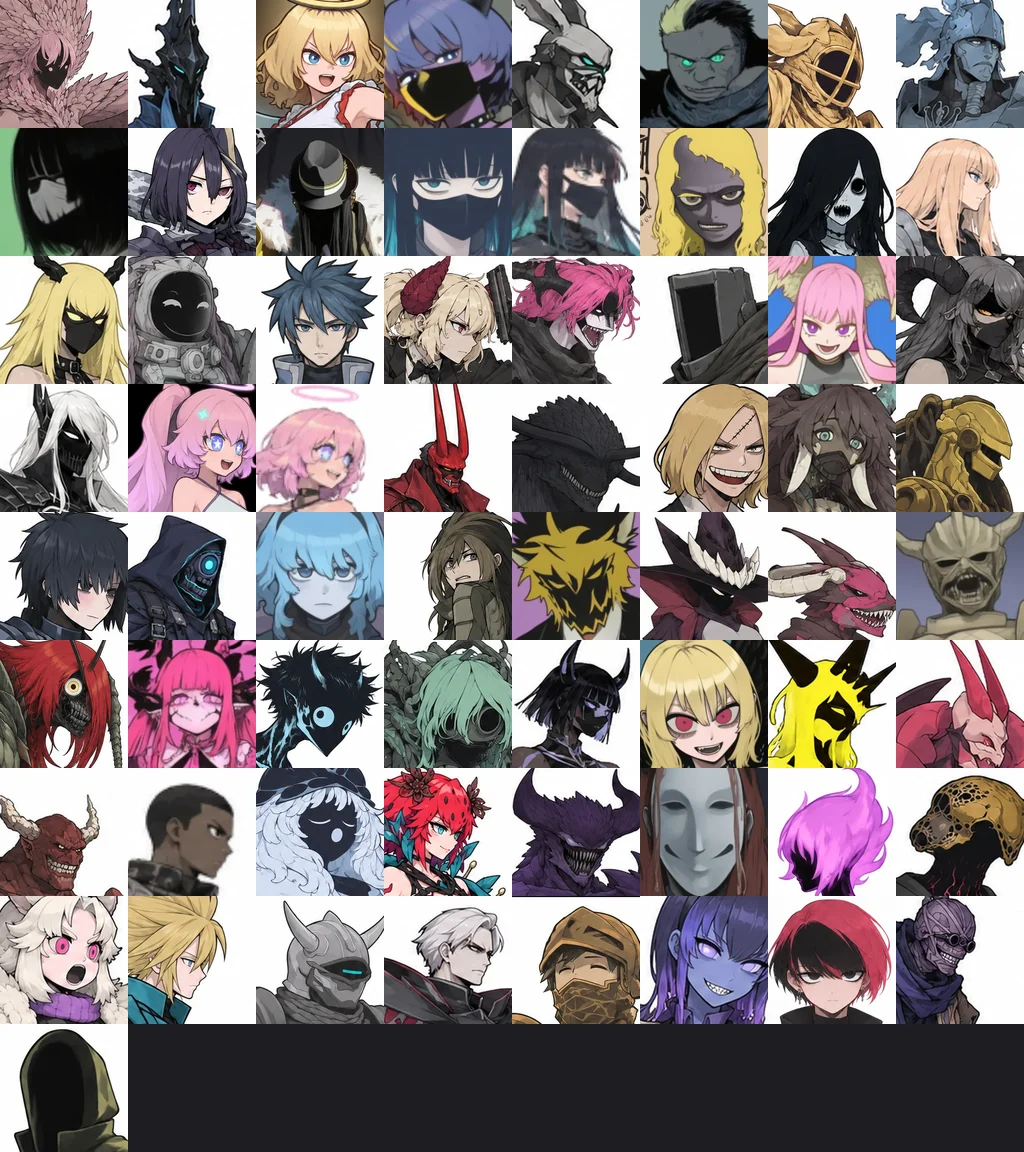
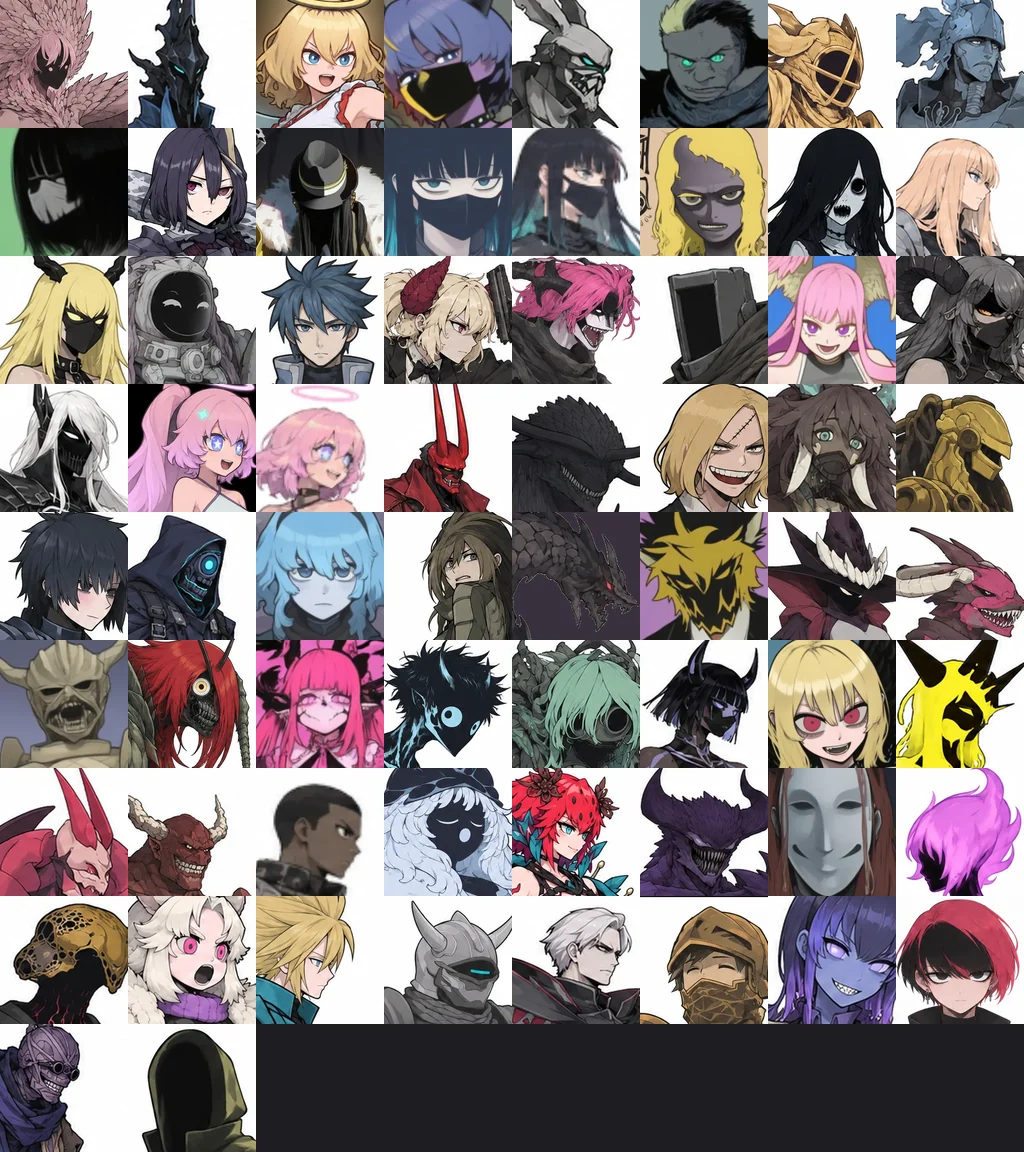
cave-3d v0.64: 자체점검 — 패시브 19개 효과 · 연계기 경직 고침 · 레비 소환수 얼굴 · tools/check_globals.js (h2.js v1.6)
Claude-Session: https://claude.ai/code/session_01J3nhobVtF4R9kQDUc9EDKF

diff --git a/cave-3d/src/h2_atlas.js b/cave-3d/src/h2_atlas.js
@@ -1,3 +1,3 @@
 /* h2_atlas.js — 자동 생성 (tools/h2_atlas.py). 손으로 고치지 말 것 */
 'use strict';
-const H2A = {"ancientangel": {"src": "art/h2/atlas/ancientangel.webp", "W": 2048, "H": 1315, "k": 1.0, "poses": {"idle_b": [0, 0, 620, 704], "idle": [624, 0, 1060, 701], "attack": [0, 708, 1045, 607]}}, "arkam": {"src": "art/h2/atlas/arkam.webp", "W": 1461, "H": 716, "k": 1.0, "poses": {"front": [0, 0, 382, 716], "idle": [386, 0, 304, 702], "attack": [694, 0, 763, 524]}}, "bel": {"src": "art/h2/atlas/bel.webp", "W": 2048, "H": 1257, "k": 1.0, "poses": {"idle": [0, 0, 454, 703], "shoot": [458, 0, 599, 624], "jump": [1061, 0, 623, 610], "crouch": [0, 707, 569, 550], "low": [573, 707, 564, 538], "down": [1141, 707, 639, 429]}}, "bishot": {"src": "art/h2/atlas/bishot.webp", "W": 2048, "H": 1417, "k": 0.81, "poses": {"special": [0, 0, 445, 585], "jump": [449, 0, 445, 585], "idle": [898, 0, 478, 569], "attack": [1380, 0, 612, 565], "windup": [0, 589, 532, 552], "finisher": [536, 589, 708, 454], "slam": [1248, 589, 708, 454], "dead": [0, 1145, 680, 272], "rest": [684, 1145, 680, 272], "down": [1368, 1145, 680, 272]}}, "blueflame": {"src": "art/h2/atlas/blueflame.webp", "W": 1422, "H": 784, "k": 1.0, "poses": {"front": [0, 0, 394, 784], "idle": [398, 0, 350, 702], "attack": [752, 0, 666, 670]}}, "changra": {"src": "art/h2/atlas/changra.webp", "W": 2048, "H": 1514, "k": 0.9, "poses": {"idle": [0, 0, 539, 630], "guard": [543, 0, 554, 599], "guardfront": [1101, 0, 553, 597], "attack": [0, 634, 699, 578], "dash": [703, 634, 627, 448], "attack2": [1334, 634, 583, 432], "dead": [0, 1216, 728, 298], "down": [732, 1216, 728, 298]}}, "cheonmyeong": {"src": "art/h2/atlas/cheonmyeong.webp", "W": 2048, "H": 1304, "k": 1.0, "poses": {"idle": [0, 0, 654, 702], "idle2": [658, 0, 548, 699], "attack": [1210, 0, 832, 650], "special": [0, 706, 906, 598]}}, "colossus15": {"src": "art/h2/atlas/colossus15.webp", "W": 1761, "H": 792, "k": 1.0, "poses": {"front": [0, 0, 542, 792], "idle": [546, 0, 392, 760], "attack": [942, 0, 815, 533]}}, "dolsoe": {"src": "art/h2/atlas/dolsoe.webp", "W": 2048, "H": 1453, "k": 1.0, "poses": {"attack2": [0, 0, 487, 721], "idle": [491, 0, 335, 698], "windup": [830, 0, 488, 597], "low": [1322, 0, 532, 531], "attack": [0, 725, 701, 513], "down": [705, 725, 732, 211], "dead": [0, 1242, 732, 211]}}, "gallia": {"src": "art/h2/atlas/gallia.webp", "W": 2048, "H": 1421, "k": 0.81, "poses": {"guard": [0, 0, 386, 601], "idle": [390, 0, 477, 569], "jump": [871, 0, 538, 543], "windup": [1413, 0, 527, 540], "attack": [0, 605, 659, 502], "attack2": [663, 605, 643, 492], "attack3": [1310, 605, 735, 424], "rest": [0, 1111, 622, 310], "down": [626, 1111, 663, 270]}}, "gandu": {"src": "art/h2/atlas/gandu.webp", "W": 2048, "H": 1846, "k": 0.9, "poses": {"idle": [0, 0, 319, 632], "backstep": [323, 0, 585, 537], "special": [912, 0, 585, 537], "attack": [0, 636, 648, 499], "crouch": [652, 636, 590, 486], "shoot": [1246, 636, 590, 486], "finisher": [0, 1139, 599, 393], "low": [603, 1139, 599, 393], "dead": [1206, 1139, 605, 310], "down": [0, 1536, 605, 310]}}, "garam": {"src": "art/h2/atlas/garam.webp", "W": 2048, "H": 1562, "k": 0.81, "poses": {"guard": [0, 0, 526, 581], "idle": [530, 0, 337, 569], "armor_idle": [871, 0, 286, 566], "special": [1161, 0, 589, 555], "armor_ready": [0, 585, 318, 529], "hurt": [322, 585, 641, 522], "run": [967, 585, 555, 497], "attack": [0, 1118, 656, 444], "finisher": [660, 1118, 505, 437], "crawl": [1169, 1118, 720, 287]}}, "garam2": {"src": "art/h2/atlas/garam2.webp", "W": 2048, "H": 1081, "k": 1.0, "poses": {"idle": [0, 0, 458, 703], "attack": [462, 0, 1011, 607], "attack2": [1477, 0, 522, 471], "guard": [0, 707, 643, 374], "low": [647, 707, 581, 352], "down": [1232, 707, 654, 152]}}, "gari": {"src": "art/h2/atlas/gari.webp", "W": 2048, "H": 1711, "k": 1.0, "poses": {"guard": [0, 0, 560, 702], "idle": [564, 0, 421, 700], "attack3": [989, 0, 485, 684], "attack": [0, 706, 590, 670], "attack2": [594, 706, 593, 567], "down": [0, 1380, 939, 331]}}, "ghostgirl": {"src": "art/h2/atlas/ghostgirl.webp", "W": 1167, "H": 719, "k": 1.0, "poses": {"front": [0, 0, 351, 719], "idle": [355, 0, 322, 701], "attack": [681, 0, 482, 596]}}, "goldknight": {"src": "art/h2/atlas/goldknight.webp", "W": 2048, "H": 1728, "k": 1.0, "poses": {"guard": [0, 0, 695, 706], "idle": [699, 0, 448, 702], "attack": [1151, 0, 841, 685], "windup": [0, 710, 598, 598], "attack2": [602, 710, 867, 592], "down": [0, 1312, 779, 416]}}, "goldmask": {"src": "art/h2/atlas/goldmask.webp", "W": 1170, "H": 736, "k": 1.0, "poses": {"front": [0, 0, 346, 736], "idle": [350, 0, 253, 702], "attack": [607, 0, 559, 585]}}, "grinvan": {"src": "art/h2/atlas/grinvan.webp", "W": 1996, "H": 888, "k": 1.0, "poses": {"front": [0, 0, 670, 888], "idle": [674, 0, 468, 739], "dash": [1146, 0, 846, 626]}}, "gun": {"src": "art/h2/atlas/gun.webp", "W": 2048, "H": 1474, "k": 1.0, "poses": {"rod": [0, 0, 344, 702], "idle": [348, 0, 270, 701], "pistol": [622, 0, 243, 698], "ready": [869, 0, 468, 595], "attack2": [1341, 0, 617, 592], "guard": [0, 706, 491, 536], "attack": [495, 706, 683, 511], "special": [1182, 706, 529, 486], "down": [0, 1246, 659, 228]}}, "gundevil": {"src": "art/h2/atlas/gundevil.webp", "W": 2048, "H": 1518, "k": 1.0, "poses": {"idle": [0, 0, 391, 701], "jump": [395, 0, 688, 606], "shoot": [1087, 0, 826, 521], "crouch": [0, 705, 487, 494], "low": [491, 705, 806, 476], "prone": [0, 1203, 784, 315]}}, "hadim": {"src": "art/h2/atlas/hadim.webp", "W": 2048, "H": 1300, "k": 1.0, "poses": {"idle2": [0, 0, 492, 703], "idle": [496, 0, 650, 700], "special": [0, 707, 899, 593], "attack": [903, 707, 951, 563]}}, "hammerknight": {"src": "art/h2/atlas/hammerknight.webp", "W": 1895, "H": 892, "k": 1.0, "poses": {"windup": [0, 0, 757, 892], "front": [761, 0, 616, 877], "idle": [1381, 0, 510, 697]}}, "hari": {"src": "art/h2/atlas/hari.webp", "W": 2048, "H": 1452, "k": 0.9, "poses": {"walk": [0, 0, 418, 652], "idle": [422, 0, 412, 638], "stand": [838, 0, 418, 637], "skill": [1260, 0, 591, 617], "attack": [0, 656, 792, 576], "attack2": [796, 656, 761, 547], "guard": [1561, 656, 475, 518], "down": [0, 1236, 631, 216]}}, "haryu": {"src": "art/h2/atlas/haryu.webp", "W": 1769, "H": 798, "k": 1.0, "poses": {"front": [0, 0, 517, 798], "idle": [521, 0, 508, 700], "attack": [1033, 0, 732, 658]}}, "heugik": {"src": "art/h2/atlas/heugik.webp", "W": 1642, "H": 734, "k": 1.0, "poses": {"front": [0, 0, 436, 734], "idle": [440, 0, 410, 710], "attack": [854, 0, 784, 504]}}, "hirari": {"src": "art/h2/atlas/hirari.webp", "W": 2048, "H": 1873, "k": 0.9, "poses": {"special": [0, 0, 617, 635], "skill": [621, 0, 419, 634], "idle": [1044, 0, 449, 630], "talk": [1497, 0, 340, 630], "hurt": [0, 639, 644, 621], "low": [648, 639, 603, 621], "run": [1255, 639, 590, 610], "guard": [0, 1264, 616, 609], "attack": [620, 1264, 605, 516], "crawl": [1229, 1264, 728, 359]}}, "hirari2": {"src": "art/h2/atlas/hirari2.webp", "W": 2048, "H": 1695, "k": 0.81, "poses": {"idle2": [0, 0, 250, 642], "idle": [254, 0, 385, 632], "special": [643, 0, 794, 581], "attack": [0, 646, 863, 578], "guard": [867, 646, 725, 571], "low": [0, 1228, 927, 467], "down": [931, 1228, 956, 271]}}, "hongdukkae": {"src": "art/h2/atlas/hongdukkae.webp", "W": 1649, "H": 715, "k": 1.0, "poses": {"front": [0, 0, 466, 715], "idle": [470, 0, 498, 698], "attack": [972, 0, 673, 607]}}, "hornbeast": {"src": "art/h2/atlas/hornbeast.webp", "W": 1810, "H": 840, "k": 1.0, "poses": {"front": [0, 0, 545, 840], "idle": [549, 0, 578, 705], "attack": [1131, 0, 675, 607]}}, "inclador": {"src": "art/h2/atlas/inclador.webp", "W": 1072, "H": 699, "k": 1.0, "poses": {"idle": [0, 0, 254, 699], "windup": [258, 0, 403, 691], "attack": [665, 0, 403, 691]}}, "jaru": {"src": "art/h2/atlas/jaru.webp", "W": 1512, "H": 754, "k": 1.0, "poses": {"front": [0, 0, 480, 754], "idle": [484, 0, 377, 704], "attack": [865, 0, 643, 623]}}, "joshua": {"src": "art/h2/atlas/joshua.webp", "W": 2048, "H": 1591, "k": 1.0, "poses": {"idle": [0, 0, 309, 699], "skill": [313, 0, 751, 678], "ready": [1068, 0, 616, 664], "attack": [0, 703, 792, 632], "guard": [796, 703, 522, 558], "special": [1322, 703, 646, 524], "down": [0, 1339, 830, 252]}}, "kanya": {"src": "art/h2/atlas/kanya.webp", "W": 2048, "H": 1449, "k": 0.9, "poses": {"idle": [0, 0, 436, 630], "idle2": [440, 0, 371, 629], "guard": [815, 0, 559, 603], "jump": [1378, 0, 662, 562], "attack": [0, 634, 787, 526], "crouch": [791, 634, 615, 512], "down": [0, 1164, 795, 285], "dead": [799, 1164, 795, 285]}}, "khaki": {"src": "art/h2/atlas/khaki.webp", "W": 2030, "H": 808, "k": 1.0, "poses": {"front": [0, 0, 521, 808], "idle": [525, 0, 427, 702], "attack": [956, 0, 1070, 548]}}, "langpang": {"src": "art/h2/atlas/langpang.webp", "W": 2048, "H": 1060, "k": 1.0, "poses": {"idle": [0, 0, 316, 702], "attack": [320, 0, 683, 650], "skill": [1007, 0, 379, 450], "crouch": [1390, 0, 430, 391], "special": [0, 706, 536, 354], "down": [540, 706, 576, 180]}}, "levi": {"src": "art/h2/atlas/levi.webp", "W": 2048, "H": 1948, "k": 1.0, "poses": {"ready": [0, 0, 347, 701], "command": [351, 0, 466, 701], "idle": [821, 0, 294, 700], "summon": [1119, 0, 459, 698], "summon2": [0, 705, 481, 693], "shoot": [485, 705, 621, 678], "attack": [1110, 705, 575, 660], "special": [0, 1402, 602, 546], "crouch": [606, 1402, 473, 533], "down": [1083, 1402, 642, 397]}}, "levi_beast": {"src": "art/h2/atlas/levi_beast.webp", "W": 1941, "H": 698, "k": 1.0, "poses": {"idle": [0, 0, 962, 698], "dash": [966, 0, 971, 677]}}, "madangsoe": {"src": "art/h2/atlas/madangsoe.webp", "W": 2048, "H": 1479, "k": 1.0, "poses": {"idle": [0, 0, 310, 702], "attack": [314, 0, 661, 625], "guard": [979, 0, 418, 552], "kick": [0, 706, 653, 549], "jump": [657, 706, 653, 549], "special": [1314, 706, 652, 531], "down": [0, 1259, 742, 220], "dead": [746, 1259, 742, 220]}}, "madosa": {"src": "art/h2/atlas/madosa.webp", "W": 1501, "H": 736, "k": 1.0, "poses": {"front": [0, 0, 423, 736], "idle": [427, 0, 357, 704], "cast": [788, 0, 709, 576]}}, "majin": {"src": "art/h2/atlas/majin.webp", "W": 1921, "H": 853, "k": 1.0, "poses": {"windup": [0, 0, 684, 853], "front": [688, 0, 632, 801], "idle": [1324, 0, 593, 686]}}, "makarov": {"src": "art/h2/atlas/makarov.webp", "W": 2048, "H": 1615, "k": 1.0, "poses": {"idle": [0, 0, 509, 706], "jump": [513, 0, 733, 696], "windup": [1250, 0, 559, 691], "attack2": [0, 710, 756, 612], "attack": [760, 710, 921, 599], "down": [0, 1326, 865, 289]}}, "mangak": {"src": "art/h2/atlas/mangak.webp", "W": 2048, "H": 1899, "k": 0.9, "poses": {"special": [0, 0, 957, 637], "idle": [961, 0, 950, 629], "walk_b": [0, 641, 868, 628], "walk": [872, 641, 772, 626], "attack": [0, 1273, 954, 626], "attack_b": [958, 1273, 1046, 617]}}, "manghyang": {"src": "art/h2/atlas/manghyang.webp", "W": 2048, "H": 1295, "k": 1.0, "poses": {"idle": [0, 0, 390, 701], "back": [394, 0, 446, 673], "attack": [844, 0, 631, 623], "slam": [0, 705, 610, 590], "guard": [614, 705, 459, 473], "down": [1077, 705, 740, 277]}}, "mano": {"src": "art/h2/atlas/mano.webp", "W": 2048, "H": 1199, "k": 1.0, "poses": {"idle": [0, 0, 303, 700], "special": [307, 0, 726, 596], "walk": [1037, 0, 413, 525], "attack": [0, 704, 643, 495]}}, "mintbeast": {"src": "art/h2/atlas/mintbeast.webp", "W": 1497, "H": 752, "k": 1.0, "poses": {"front": [0, 0, 432, 752], "idle": [436, 0, 371, 698], "attack": [811, 0, 682, 677]}}, "ohe": {"src": "art/h2/atlas/ohe.webp", "W": 679, "H": 710, "k": 1.0, "poses": {"idle": [0, 0, 258, 710], "sneak": [262, 0, 413, 433]}}, "pearl": {"src": "art/h2/atlas/pearl.webp", "W": 2048, "H": 1402, "k": 1.0, "poses": {"land": [0, 0, 505, 705], "attack": [509, 0, 639, 700], "idle": [1152, 0, 345, 699], "special": [0, 709, 665, 693], "crouch": [669, 709, 340, 428], "down": [1013, 709, 579, 257]}}, "rain": {"src": "art/h2/atlas/rain.webp", "W": 2001, "H": 816, "k": 1.0, "poses": {"front": [0, 0, 626, 816], "idle": [630, 0, 458, 697], "attack": [1092, 0, 905, 510]}}, "redarmor": {"src": "art/h2/atlas/redarmor.webp", "W": 1873, "H": 811, "k": 1.0, "poses": {"front": [0, 0, 520, 811], "idle": [524, 0, 603, 693], "attack": [1131, 0, 738, 601]}}, "redrock": {"src": "art/h2/atlas/redrock.webp", "W": 1690, "H": 801, "k": 1.0, "poses": {"front": [0, 0, 583, 801], "idle": [587, 0, 356, 797], "windup": [947, 0, 739, 626]}}, "rook": {"src": "art/h2/atlas/rook.webp", "W": 2048, "H": 2035, "k": 1.0, "poses": {"idle": [0, 0, 505, 829], "dash": [509, 0, 965, 631], "guard": [0, 833, 880, 607], "low": [884, 833, 959, 597], "attack": [0, 1444, 1065, 591], "down": [1069, 1444, 974, 543]}}, "ryang": {"src": "art/h2/atlas/ryang.webp", "W": 2048, "H": 1405, "k": 1.0, "poses": {"special": [0, 0, 1054, 701], "idle": [1058, 0, 667, 700], "idle2": [0, 705, 636, 700], "attack": [640, 705, 1045, 667]}}, "sanddalgi": {"src": "art/h2/atlas/sanddalgi.webp", "W": 2048, "H": 1331, "k": 1.0, "poses": {"idle": [0, 0, 492, 700], "cast": [496, 0, 573, 691], "attack": [1073, 0, 540, 668], "skill": [0, 704, 547, 627], "guard": [551, 704, 589, 605], "down": [1144, 704, 698, 383]}}, "scythebeast": {"src": "art/h2/atlas/scythebeast.webp", "W": 1716, "H": 785, "k": 1.0, "poses": {"front": [0, 0, 536, 785], "idle": [540, 0, 290, 773], "attack": [834, 0, 878, 625]}}, "shedor": {"src": "art/h2/atlas/shedor.webp", "W": 2048, "H": 1240, "k": 1.0, "poses": {"idle": [0, 0, 447, 700], "windup": [451, 0, 599, 700], "attack": [1054, 0, 648, 657], "crouch": [0, 704, 549, 536], "guard": [553, 704, 523, 511], "dead": [1080, 704, 650, 211]}}, "sosucha": {"src": "art/h2/atlas/sosucha.webp", "W": 2048, "H": 1609, "k": 1.0, "poses": {"skill": [0, 0, 220, 716], "idle": [224, 0, 139, 702], "stand": [367, 0, 122, 698], "attack2": [493, 0, 581, 694], "attack": [1078, 0, 957, 609], "windup": [0, 720, 738, 580], "windup2": [742, 720, 579, 580], "attack3": [1325, 720, 618, 570], "low": [0, 1304, 903, 305], "crawl": [907, 1304, 798, 293]}}, "spore": {"src": "art/h2/atlas/spore.webp", "W": 1308, "H": 701, "k": 1.0, "poses": {"front": [0, 0, 403, 701], "idle": [407, 0, 394, 699], "attack": [805, 0, 499, 645]}}, "stoneglove": {"src": "art/h2/atlas/stoneglove.webp", "W": 1896, "H": 695, "k": 1.0, "poses": {"idle": [0, 0, 432, 695], "idle2": [436, 0, 428, 692], "guard": [868, 0, 459, 594], "attack": [1331, 0, 561, 535]}}, "tanga": {"src": "art/h2/atlas/tanga.webp", "W": 2048, "H": 1612, "k": 0.9, "poses": {"idle": [0, 0, 407, 636], "stand": [411, 0, 312, 629], "attack2": [727, 0, 680, 542], "jump": [1411, 0, 489, 535], "attack": [0, 640, 550, 517], "windup": [554, 640, 562, 468], "guard": [1120, 640, 685, 466], "attack3": [0, 1161, 670, 451], "down": [674, 1161, 567, 314]}}, "tank": {"src": "art/h2/atlas/tank.webp", "W": 2048, "H": 1763, "k": 1.0, "poses": {"idle": [0, 0, 484, 703], "front": [488, 0, 458, 700], "attack2": [950, 0, 525, 690], "idle2": [1479, 0, 484, 666], "attack": [0, 707, 602, 610], "guard": [606, 707, 602, 552], "low": [1212, 707, 584, 475], "windup": [0, 1321, 654, 442], "down": [658, 1321, 615, 346], "dead": [1277, 1321, 615, 346]}}, "ted": {"src": "art/h2/atlas/ted.webp", "W": 1687, "H": 802, "k": 1.0, "poses": {"front": [0, 0, 510, 802], "idle": [514, 0, 454, 703], "attack": [972, 0, 711, 585]}}, "venti": {"src": "art/h2/atlas/venti.webp", "W": 2048, "H": 1948, "k": 0.9, "poses": {"front": [0, 0, 316, 630], "idle": [320, 0, 353, 629], "walk": [677, 0, 428, 590], "attack": [1109, 0, 618, 582], "idle2": [0, 634, 339, 574], "bash": [343, 634, 617, 547], "guard": [964, 634, 538, 538], "attack2": [0, 1212, 686, 521], "windup": [690, 1212, 497, 465], "down": [1191, 1212, 594, 308], "dead": [0, 1737, 638, 211]}}, "vicky": {"src": "art/h2/atlas/vicky.webp", "W": 1184, "H": 781, "k": 1.0, "poses": {"front": [0, 0, 331, 781], "idle": [335, 0, 252, 693], "attack": [591, 0, 589, 621]}}, "whistle": {"src": "art/h2/atlas/whistle.webp", "W": 2048, "H": 1341, "k": 1.0, "poses": {"taunt": [0, 0, 350, 711], "idle3": [354, 0, 370, 704], "idle": [728, 0, 345, 700], "idle2": [1077, 0, 317, 699], "guard": [1398, 0, 587, 628], "walk": [0, 715, 354, 626], "attack": [358, 715, 724, 599], "attack2": [1086, 715, 614, 417]}}, "wraitha": {"src": "art/h2/atlas/wraitha.webp", "W": 2048, "H": 1475, "k": 1.0, "poses": {"front": [0, 0, 615, 852], "idle": [619, 0, 454, 702], "attack": [0, 856, 982, 619]}}, "yuli": {"src": "art/h2/atlas/yuli.webp", "W": 2048, "H": 1763, "k": 1.0, "poses": {"cast": [0, 0, 391, 711], "idle": [395, 0, 283, 701], "ready": [682, 0, 256, 700], "windup": [942, 0, 403, 688], "attack": [0, 715, 753, 619], "guard": [757, 715, 555, 599], "skill": [1316, 715, 718, 583], "special": [0, 1338, 667, 425], "down": [671, 1338, 770, 243]}}, "faces": {"src": "art/h2/atlas/faces.webp", "cell": 128, "cols": 8, "rows": 9, "i": {"ancientangel": 0, "arkam": 1, "bel": 2, "bishot": 3, "blueflame": 4, "changra": 5, "cheonmyeong": 6, "colossus15": 7, "dolsoe": 8, "gallia": 9, "gandu": 10, "garam": 11, "garam2": 12, "gari": 13, "ghostgirl": 14, "goldknight": 15, "goldmask": 16, "grinvan": 17, "gun": 18, "gundevil": 19, "hadim": 20, "hammerknight": 21, "hari": 22, "haryu": 23, "heugik": 24, "hirari": 25, "hirari2": 26, "hongdukkae": 27, "hornbeast": 28, "inclador": 29, "jaru": 30, "joshua": 31, "kanya": 32, "khaki": 33, "langpang": 34, "levi": 35, "madangsoe": 36, "madosa": 37, "majin": 38, "makarov": 39, "mangak": 40, "manghyang": 41, "mano": 42, "mintbeast": 43, "ohe": 44, "pearl": 45, "rain": 46, "redarmor": 47, "redrock": 48, "rook": 49, "ryang": 50, "sanddalgi": 51, "scythebeast": 52, "shedor": 53, "sosucha": 54, "spore": 55, "stoneglove": 56, "tanga": 57, "tank": 58, "ted": 59, "venti": 60, "vicky": 61, "whistle": 62, "wraitha": 63, "yuli": 64}}};
+const H2A = {"ancientangel": {"src": "art/h2/atlas/ancientangel.webp", "W": 2048, "H": 1315, "k": 1.0, "poses": {"idle_b": [0, 0, 620, 704], "idle": [624, 0, 1060, 701], "attack": [0, 708, 1045, 607]}}, "arkam": {"src": "art/h2/atlas/arkam.webp", "W": 1461, "H": 716, "k": 1.0, "poses": {"front": [0, 0, 382, 716], "idle": [386, 0, 304, 702], "attack": [694, 0, 763, 524]}}, "bel": {"src": "art/h2/atlas/bel.webp", "W": 2048, "H": 1257, "k": 1.0, "poses": {"idle": [0, 0, 454, 703], "shoot": [458, 0, 599, 624], "jump": [1061, 0, 623, 610], "crouch": [0, 707, 569, 550], "low": [573, 707, 564, 538], "down": [1141, 707, 639, 429]}}, "bishot": {"src": "art/h2/atlas/bishot.webp", "W": 2048, "H": 1417, "k": 0.81, "poses": {"special": [0, 0, 445, 585], "jump": [449, 0, 445, 585], "idle": [898, 0, 478, 569], "attack": [1380, 0, 612, 565], "windup": [0, 589, 532, 552], "finisher": [536, 589, 708, 454], "slam": [1248, 589, 708, 454], "dead": [0, 1145, 680, 272], "rest": [684, 1145, 680, 272], "down": [1368, 1145, 680, 272]}}, "blueflame": {"src": "art/h2/atlas/blueflame.webp", "W": 1422, "H": 784, "k": 1.0, "poses": {"front": [0, 0, 394, 784], "idle": [398, 0, 350, 702], "attack": [752, 0, 666, 670]}}, "changra": {"src": "art/h2/atlas/changra.webp", "W": 2048, "H": 1514, "k": 0.9, "poses": {"idle": [0, 0, 539, 630], "guard": [543, 0, 554, 599], "guardfront": [1101, 0, 553, 597], "attack": [0, 634, 699, 578], "dash": [703, 634, 627, 448], "attack2": [1334, 634, 583, 432], "dead": [0, 1216, 728, 298], "down": [732, 1216, 728, 298]}}, "cheonmyeong": {"src": "art/h2/atlas/cheonmyeong.webp", "W": 2048, "H": 1304, "k": 1.0, "poses": {"idle": [0, 0, 654, 702], "idle2": [658, 0, 548, 699], "attack": [1210, 0, 832, 650], "special": [0, 706, 906, 598]}}, "colossus15": {"src": "art/h2/atlas/colossus15.webp", "W": 1761, "H": 792, "k": 1.0, "poses": {"front": [0, 0, 542, 792], "idle": [546, 0, 392, 760], "attack": [942, 0, 815, 533]}}, "dolsoe": {"src": "art/h2/atlas/dolsoe.webp", "W": 2048, "H": 1453, "k": 1.0, "poses": {"attack2": [0, 0, 487, 721], "idle": [491, 0, 335, 698], "windup": [830, 0, 488, 597], "low": [1322, 0, 532, 531], "attack": [0, 725, 701, 513], "down": [705, 725, 732, 211], "dead": [0, 1242, 732, 211]}}, "gallia": {"src": "art/h2/atlas/gallia.webp", "W": 2048, "H": 1421, "k": 0.81, "poses": {"guard": [0, 0, 386, 601], "idle": [390, 0, 477, 569], "jump": [871, 0, 538, 543], "windup": [1413, 0, 527, 540], "attack": [0, 605, 659, 502], "attack2": [663, 605, 643, 492], "attack3": [1310, 605, 735, 424], "rest": [0, 1111, 622, 310], "down": [626, 1111, 663, 270]}}, "gandu": {"src": "art/h2/atlas/gandu.webp", "W": 2048, "H": 1846, "k": 0.9, "poses": {"idle": [0, 0, 319, 632], "backstep": [323, 0, 585, 537], "special": [912, 0, 585, 537], "attack": [0, 636, 648, 499], "crouch": [652, 636, 590, 486], "shoot": [1246, 636, 590, 486], "finisher": [0, 1139, 599, 393], "low": [603, 1139, 599, 393], "dead": [1206, 1139, 605, 310], "down": [0, 1536, 605, 310]}}, "garam": {"src": "art/h2/atlas/garam.webp", "W": 2048, "H": 1562, "k": 0.81, "poses": {"guard": [0, 0, 526, 581], "idle": [530, 0, 337, 569], "armor_idle": [871, 0, 286, 566], "special": [1161, 0, 589, 555], "armor_ready": [0, 585, 318, 529], "hurt": [322, 585, 641, 522], "run": [967, 585, 555, 497], "attack": [0, 1118, 656, 444], "finisher": [660, 1118, 505, 437], "crawl": [1169, 1118, 720, 287]}}, "garam2": {"src": "art/h2/atlas/garam2.webp", "W": 2048, "H": 1081, "k": 1.0, "poses": {"idle": [0, 0, 458, 703], "attack": [462, 0, 1011, 607], "attack2": [1477, 0, 522, 471], "guard": [0, 707, 643, 374], "low": [647, 707, 581, 352], "down": [1232, 707, 654, 152]}}, "gari": {"src": "art/h2/atlas/gari.webp", "W": 2048, "H": 1711, "k": 1.0, "poses": {"guard": [0, 0, 560, 702], "idle": [564, 0, 421, 700], "attack3": [989, 0, 485, 684], "attack": [0, 706, 590, 670], "attack2": [594, 706, 593, 567], "down": [0, 1380, 939, 331]}}, "ghostgirl": {"src": "art/h2/atlas/ghostgirl.webp", "W": 1167, "H": 719, "k": 1.0, "poses": {"front": [0, 0, 351, 719], "idle": [355, 0, 322, 701], "attack": [681, 0, 482, 596]}}, "goldknight": {"src": "art/h2/atlas/goldknight.webp", "W": 2048, "H": 1728, "k": 1.0, "poses": {"guard": [0, 0, 695, 706], "idle": [699, 0, 448, 702], "attack": [1151, 0, 841, 685], "windup": [0, 710, 598, 598], "attack2": [602, 710, 867, 592], "down": [0, 1312, 779, 416]}}, "goldmask": {"src": "art/h2/atlas/goldmask.webp", "W": 1170, "H": 736, "k": 1.0, "poses": {"front": [0, 0, 346, 736], "idle": [350, 0, 253, 702], "attack": [607, 0, 559, 585]}}, "grinvan": {"src": "art/h2/atlas/grinvan.webp", "W": 1996, "H": 888, "k": 1.0, "poses": {"front": [0, 0, 670, 888], "idle": [674, 0, 468, 739], "dash": [1146, 0, 846, 626]}}, "gun": {"src": "art/h2/atlas/gun.webp", "W": 2048, "H": 1474, "k": 1.0, "poses": {"rod": [0, 0, 344, 702], "idle": [348, 0, 270, 701], "pistol": [622, 0, 243, 698], "ready": [869, 0, 468, 595], "attack2": [1341, 0, 617, 592], "guard": [0, 706, 491, 536], "attack": [495, 706, 683, 511], "special": [1182, 706, 529, 486], "down": [0, 1246, 659, 228]}}, "gundevil": {"src": "art/h2/atlas/gundevil.webp", "W": 2048, "H": 1518, "k": 1.0, "poses": {"idle": [0, 0, 391, 701], "jump": [395, 0, 688, 606], "shoot": [1087, 0, 826, 521], "crouch": [0, 705, 487, 494], "low": [491, 705, 806, 476], "prone": [0, 1203, 784, 315]}}, "hadim": {"src": "art/h2/atlas/hadim.webp", "W": 2048, "H": 1300, "k": 1.0, "poses": {"idle2": [0, 0, 492, 703], "idle": [496, 0, 650, 700], "special": [0, 707, 899, 593], "attack": [903, 707, 951, 563]}}, "hammerknight": {"src": "art/h2/atlas/hammerknight.webp", "W": 1895, "H": 892, "k": 1.0, "poses": {"windup": [0, 0, 757, 892], "front": [761, 0, 616, 877], "idle": [1381, 0, 510, 697]}}, "hari": {"src": "art/h2/atlas/hari.webp", "W": 2048, "H": 1452, "k": 0.9, "poses": {"walk": [0, 0, 418, 652], "idle": [422, 0, 412, 638], "stand": [838, 0, 418, 637], "skill": [1260, 0, 591, 617], "attack": [0, 656, 792, 576], "attack2": [796, 656, 761, 547], "guard": [1561, 656, 475, 518], "down": [0, 1236, 631, 216]}}, "haryu": {"src": "art/h2/atlas/haryu.webp", "W": 1769, "H": 798, "k": 1.0, "poses": {"front": [0, 0, 517, 798], "idle": [521, 0, 508, 700], "attack": [1033, 0, 732, 658]}}, "heugik": {"src": "art/h2/atlas/heugik.webp", "W": 1642, "H": 734, "k": 1.0, "poses": {"front": [0, 0, 436, 734], "idle": [440, 0, 410, 710], "attack": [854, 0, 784, 504]}}, "hirari": {"src": "art/h2/atlas/hirari.webp", "W": 2048, "H": 1873, "k": 0.9, "poses": {"special": [0, 0, 617, 635], "skill": [621, 0, 419, 634], "idle": [1044, 0, 449, 630], "talk": [1497, 0, 340, 630], "hurt": [0, 639, 644, 621], "low": [648, 639, 603, 621], "run": [1255, 639, 590, 610], "guard": [0, 1264, 616, 609], "attack": [620, 1264, 605, 516], "crawl": [1229, 1264, 728, 359]}}, "hirari2": {"src": "art/h2/atlas/hirari2.webp", "W": 2048, "H": 1695, "k": 0.81, "poses": {"idle2": [0, 0, 250, 642], "idle": [254, 0, 385, 632], "special": [643, 0, 794, 581], "attack": [0, 646, 863, 578], "guard": [867, 646, 725, 571], "low": [0, 1228, 927, 467], "down": [931, 1228, 956, 271]}}, "hongdukkae": {"src": "art/h2/atlas/hongdukkae.webp", "W": 1649, "H": 715, "k": 1.0, "poses": {"front": [0, 0, 466, 715], "idle": [470, 0, 498, 698], "attack": [972, 0, 673, 607]}}, "hornbeast": {"src": "art/h2/atlas/hornbeast.webp", "W": 1810, "H": 840, "k": 1.0, "poses": {"front": [0, 0, 545, 840], "idle": [549, 0, 578, 705], "attack": [1131, 0, 675, 607]}}, "inclador": {"src": "art/h2/atlas/inclador.webp", "W": 1072, "H": 699, "k": 1.0, "poses": {"idle": [0, 0, 254, 699], "windup": [258, 0, 403, 691], "attack": [665, 0, 403, 691]}}, "jaru": {"src": "art/h2/atlas/jaru.webp", "W": 1512, "H": 754, "k": 1.0, "poses": {"front": [0, 0, 480, 754], "idle": [484, 0, 377, 704], "attack": [865, 0, 643, 623]}}, "joshua": {"src": "art/h2/atlas/joshua.webp", "W": 2048, "H": 1591, "k": 1.0, "poses": {"idle": [0, 0, 309, 699], "skill": [313, 0, 751, 678], "ready": [1068, 0, 616, 664], "attack": [0, 703, 792, 632], "guard": [796, 703, 522, 558], "special": [1322, 703, 646, 524], "down": [0, 1339, 830, 252]}}, "kanya": {"src": "art/h2/atlas/kanya.webp", "W": 2048, "H": 1449, "k": 0.9, "poses": {"idle": [0, 0, 436, 630], "idle2": [440, 0, 371, 629], "guard": [815, 0, 559, 603], "jump": [1378, 0, 662, 562], "attack": [0, 634, 787, 526], "crouch": [791, 634, 615, 512], "down": [0, 1164, 795, 285], "dead": [799, 1164, 795, 285]}}, "khaki": {"src": "art/h2/atlas/khaki.webp", "W": 2030, "H": 808, "k": 1.0, "poses": {"front": [0, 0, 521, 808], "idle": [525, 0, 427, 702], "attack": [956, 0, 1070, 548]}}, "langpang": {"src": "art/h2/atlas/langpang.webp", "W": 2048, "H": 1060, "k": 1.0, "poses": {"idle": [0, 0, 316, 702], "attack": [320, 0, 683, 650], "skill": [1007, 0, 379, 450], "crouch": [1390, 0, 430, 391], "special": [0, 706, 536, 354], "down": [540, 706, 576, 180]}}, "levi": {"src": "art/h2/atlas/levi.webp", "W": 2048, "H": 1948, "k": 1.0, "poses": {"ready": [0, 0, 347, 701], "command": [351, 0, 466, 701], "idle": [821, 0, 294, 700], "summon": [1119, 0, 459, 698], "summon2": [0, 705, 481, 693], "shoot": [485, 705, 621, 678], "attack": [1110, 705, 575, 660], "special": [0, 1402, 602, 546], "crouch": [606, 1402, 473, 533], "down": [1083, 1402, 642, 397]}}, "levi_beast": {"src": "art/h2/atlas/levi_beast.webp", "W": 1941, "H": 698, "k": 1.0, "poses": {"idle": [0, 0, 962, 698], "dash": [966, 0, 971, 677]}}, "madangsoe": {"src": "art/h2/atlas/madangsoe.webp", "W": 2048, "H": 1479, "k": 1.0, "poses": {"idle": [0, 0, 310, 702], "attack": [314, 0, 661, 625], "guard": [979, 0, 418, 552], "kick": [0, 706, 653, 549], "jump": [657, 706, 653, 549], "special": [1314, 706, 652, 531], "down": [0, 1259, 742, 220], "dead": [746, 1259, 742, 220]}}, "madosa": {"src": "art/h2/atlas/madosa.webp", "W": 1501, "H": 736, "k": 1.0, "poses": {"front": [0, 0, 423, 736], "idle": [427, 0, 357, 704], "cast": [788, 0, 709, 576]}}, "majin": {"src": "art/h2/atlas/majin.webp", "W": 1921, "H": 853, "k": 1.0, "poses": {"windup": [0, 0, 684, 853], "front": [688, 0, 632, 801], "idle": [1324, 0, 593, 686]}}, "makarov": {"src": "art/h2/atlas/makarov.webp", "W": 2048, "H": 1615, "k": 1.0, "poses": {"idle": [0, 0, 509, 706], "jump": [513, 0, 733, 696], "windup": [1250, 0, 559, 691], "attack2": [0, 710, 756, 612], "attack": [760, 710, 921, 599], "down": [0, 1326, 865, 289]}}, "mangak": {"src": "art/h2/atlas/mangak.webp", "W": 2048, "H": 1899, "k": 0.9, "poses": {"special": [0, 0, 957, 637], "idle": [961, 0, 950, 629], "walk_b": [0, 641, 868, 628], "walk": [872, 641, 772, 626], "attack": [0, 1273, 954, 626], "attack_b": [958, 1273, 1046, 617]}}, "manghyang": {"src": "art/h2/atlas/manghyang.webp", "W": 2048, "H": 1295, "k": 1.0, "poses": {"idle": [0, 0, 390, 701], "back": [394, 0, 446, 673], "attack": [844, 0, 631, 623], "slam": [0, 705, 610, 590], "guard": [614, 705, 459, 473], "down": [1077, 705, 740, 277]}}, "mano": {"src": "art/h2/atlas/mano.webp", "W": 2048, "H": 1199, "k": 1.0, "poses": {"idle": [0, 0, 303, 700], "special": [307, 0, 726, 596], "walk": [1037, 0, 413, 525], "attack": [0, 704, 643, 495]}}, "mintbeast": {"src": "art/h2/atlas/mintbeast.webp", "W": 1497, "H": 752, "k": 1.0, "poses": {"front": [0, 0, 432, 752], "idle": [436, 0, 371, 698], "attack": [811, 0, 682, 677]}}, "ohe": {"src": "art/h2/atlas/ohe.webp", "W": 679, "H": 710, "k": 1.0, "poses": {"idle": [0, 0, 258, 710], "sneak": [262, 0, 413, 433]}}, "pearl": {"src": "art/h2/atlas/pearl.webp", "W": 2048, "H": 1402, "k": 1.0, "poses": {"land": [0, 0, 505, 705], "attack": [509, 0, 639, 700], "idle": [1152, 0, 345, 699], "special": [0, 709, 665, 693], "crouch": [669, 709, 340, 428], "down": [1013, 709, 579, 257]}}, "rain": {"src": "art/h2/atlas/rain.webp", "W": 2001, "H": 816, "k": 1.0, "poses": {"front": [0, 0, 626, 816], "idle": [630, 0, 458, 697], "attack": [1092, 0, 905, 510]}}, "redarmor": {"src": "art/h2/atlas/redarmor.webp", "W": 1873, "H": 811, "k": 1.0, "poses": {"front": [0, 0, 520, 811], "idle": [524, 0, 603, 693], "attack": [1131, 0, 738, 601]}}, "redrock": {"src": "art/h2/atlas/redrock.webp", "W": 1690, "H": 801, "k": 1.0, "poses": {"front": [0, 0, 583, 801], "idle": [587, 0, 356, 797], "windup": [947, 0, 739, 626]}}, "rook": {"src": "art/h2/atlas/rook.webp", "W": 2048, "H": 2035, "k": 1.0, "poses": {"idle": [0, 0, 505, 829], "dash": [509, 0, 965, 631], "guard": [0, 833, 880, 607], "low": [884, 833, 959, 597], "attack": [0, 1444, 1065, 591], "down": [1069, 1444, 974, 543]}}, "ryang": {"src": "art/h2/atlas/ryang.webp", "W": 2048, "H": 1405, "k": 1.0, "poses": {"special": [0, 0, 1054, 701], "idle": [1058, 0, 667, 700], "idle2": [0, 705, 636, 700], "attack": [640, 705, 1045, 667]}}, "sanddalgi": {"src": "art/h2/atlas/sanddalgi.webp", "W": 2048, "H": 1331, "k": 1.0, "poses": {"idle": [0, 0, 492, 700], "cast": [496, 0, 573, 691], "attack": [1073, 0, 540, 668], "skill": [0, 704, 547, 627], "guard": [551, 704, 589, 605], "down": [1144, 704, 698, 383]}}, "scythebeast": {"src": "art/h2/atlas/scythebeast.webp", "W": 1716, "H": 785, "k": 1.0, "poses": {"front": [0, 0, 536, 785], "idle": [540, 0, 290, 773], "attack": [834, 0, 878, 625]}}, "shedor": {"src": "art/h2/atlas/shedor.webp", "W": 2048, "H": 1240, "k": 1.0, "poses": {"idle": [0, 0, 447, 700], "windup": [451, 0, 599, 700], "attack": [1054, 0, 648, 657], "crouch": [0, 704, 549, 536], "guard": [553, 704, 523, 511], "dead": [1080, 704, 650, 211]}}, "sosucha": {"src": "art/h2/atlas/sosucha.webp", "W": 2048, "H": 1609, "k": 1.0, "poses": {"skill": [0, 0, 220, 716], "idle": [224, 0, 139, 702], "stand": [367, 0, 122, 698], "attack2": [493, 0, 581, 694], "attack": [1078, 0, 957, 609], "windup": [0, 720, 738, 580], "windup2": [742, 720, 579, 580], "attack3": [1325, 720, 618, 570], "low": [0, 1304, 903, 305], "crawl": [907, 1304, 798, 293]}}, "spore": {"src": "art/h2/atlas/spore.webp", "W": 1308, "H": 701, "k": 1.0, "poses": {"front": [0, 0, 403, 701], "idle": [407, 0, 394, 699], "attack": [805, 0, 499, 645]}}, "stoneglove": {"src": "art/h2/atlas/stoneglove.webp", "W": 1896, "H": 695, "k": 1.0, "poses": {"idle": [0, 0, 432, 695], "idle2": [436, 0, 428, 692], "guard": [868, 0, 459, 594], "attack": [1331, 0, 561, 535]}}, "tanga": {"src": "art/h2/atlas/tanga.webp", "W": 2048, "H": 1612, "k": 0.9, "poses": {"idle": [0, 0, 407, 636], "stand": [411, 0, 312, 629], "attack2": [727, 0, 680, 542], "jump": [1411, 0, 489, 535], "attack": [0, 640, 550, 517], "windup": [554, 640, 562, 468], "guard": [1120, 640, 685, 466], "attack3": [0, 1161, 670, 451], "down": [674, 1161, 567, 314]}}, "tank": {"src": "art/h2/atlas/tank.webp", "W": 2048, "H": 1763, "k": 1.0, "poses": {"idle": [0, 0, 484, 703], "front": [488, 0, 458, 700], "attack2": [950, 0, 525, 690], "idle2": [1479, 0, 484, 666], "attack": [0, 707, 602, 610], "guard": [606, 707, 602, 552], "low": [1212, 707, 584, 475], "windup": [0, 1321, 654, 442], "down": [658, 1321, 615, 346], "dead": [1277, 1321, 615, 346]}}, "ted": {"src": "art/h2/atlas/ted.webp", "W": 1687, "H": 802, "k": 1.0, "poses": {"front": [0, 0, 510, 802], "idle": [514, 0, 454, 703], "attack": [972, 0, 711, 585]}}, "venti": {"src": "art/h2/atlas/venti.webp", "W": 2048, "H": 1948, "k": 0.9, "poses": {"front": [0, 0, 316, 630], "idle": [320, 0, 353, 629], "walk": [677, 0, 428, 590], "attack": [1109, 0, 618, 582], "idle2": [0, 634, 339, 574], "bash": [343, 634, 617, 547], "guard": [964, 634, 538, 538], "attack2": [0, 1212, 686, 521], "windup": [690, 1212, 497, 465], "down": [1191, 1212, 594, 308], "dead": [0, 1737, 638, 211]}}, "vicky": {"src": "art/h2/atlas/vicky.webp", "W": 1184, "H": 781, "k": 1.0, "poses": {"front": [0, 0, 331, 781], "idle": [335, 0, 252, 693], "attack": [591, 0, 589, 621]}}, "whistle": {"src": "art/h2/atlas/whistle.webp", "W": 2048, "H": 1341, "k": 1.0, "poses": {"taunt": [0, 0, 350, 711], "idle3": [354, 0, 370, 704], "idle": [728, 0, 345, 700], "idle2": [1077, 0, 317, 699], "guard": [1398, 0, 587, 628], "walk": [0, 715, 354, 626], "attack": [358, 715, 724, 599], "attack2": [1086, 715, 614, 417]}}, "wraitha": {"src": "art/h2/atlas/wraitha.webp", "W": 2048, "H": 1475, "k": 1.0, "poses": {"front": [0, 0, 615, 852], "idle": [619, 0, 454, 702], "attack": [0, 856, 982, 619]}}, "yuli": {"src": "art/h2/atlas/yuli.webp", "W": 2048, "H": 1763, "k": 1.0, "poses": {"cast": [0, 0, 391, 711], "idle": [395, 0, 283, 701], "ready": [682, 0, 256, 700], "windup": [942, 0, 403, 688], "attack": [0, 715, 753, 619], "guard": [757, 715, 555, 599], "skill": [1316, 715, 718, 583], "special": [0, 1338, 667, 425], "down": [671, 1338, 770, 243]}}, "faces": {"src": "art/h2/atlas/faces.webp", "cell": 128, "cols": 8, "rows": 9, "i": {"ancientangel": 0, "arkam": 1, "bel": 2, "bishot": 3, "blueflame": 4, "changra": 5, "cheonmyeong": 6, "colossus15": 7, "dolsoe": 8, "gallia": 9, "gandu": 10, "garam": 11, "garam2": 12, "gari": 13, "ghostgirl": 14, "goldknight": 15, "goldmask": 16, "grinvan": 17, "gun": 18, "gundevil": 19, "hadim": 20, "hammerknight": 21, "hari": 22, "haryu": 23, "heugik": 24, "hirari": 25, "hirari2": 26, "hongdukkae": 27, "hornbeast": 28, "inclador": 29, "jaru": 30, "joshua": 31, "kanya": 32, "khaki": 33, "langpang": 34, "levi": 35, "levi_beast": 36, "madangsoe": 37, "madosa": 38, "majin": 39, "makarov": 40, "mangak": 41, "manghyang": 42, "mano": 43, "mintbeast": 44, "ohe": 45, "pearl": 46, "rain": 47, "redarmor": 48, "redrock": 49, "rook": 50, "ryang": 51, "sanddalgi": 52, "scythebeast": 53, "shedor": 54, "sosucha": 55, "spore": 56, "stoneglove": 57, "tanga": 58, "tank": 59, "ted": 60, "venti": 61, "vicky": 62, "whistle": 63, "wraitha": 64, "yuli": 65}}};

diff --git a/cave-3d/src/h2.js b/cave-3d/src/h2.js
@@ -1,4 +1,4 @@
-/* h2.js v1.5 — (v1.5: 3기 1차 25명 기술표 · 2기 7명 덧붙임 · 패시브 13종 · 소환 kind/hpk) (v1.4: 3기 — 기술 종류 rain 연속 장판 · wave 충격파 · beam 광선 · trap 덫 · combo 연계, 보스 2페이즈 phase · 2페이즈 기술 ph) (v1.3, v0.61: 움직임 기울기도 보이는 방향 fS를 따름) (v1.2: 묶음 그림 H2A (h2_atlas.js)가 있으면 그 칸을 씀 · 얼굴 모음) (v1.1: 기술 이름을 덮던 발수 n → cnt · 이름 괄호 정리 · 등급 묶음 · 패시브 효과 21종 H2PAS) (v1.0, v0.60) 2기 멤버: 드라이브 '2기멤버 동료,적 모음' 1차 반영
+/* h2.js v1.6 — (v1.6: 자체점검 — 글만 있던 패시브 19개에 효과 · 주먹 화상 hitSts · 연계 도중 맞거나 넘어지면 끊김 (전엔 경직을 풀어 버림)) (v1.5: 3기 1차 25명 기술표 · 2기 7명 덧붙임 · 패시브 13종 · 소환 kind/hpk) (v1.4: 3기 — 기술 종류 rain 연속 장판 · wave 충격파 · beam 광선 · trap 덫 · combo 연계, 보스 2페이즈 phase · 2페이즈 기술 ph) (v1.3, v0.61: 움직임 기울기도 보이는 방향 fS를 따름) (v1.2: 묶음 그림 H2A (h2_atlas.js)가 있으면 그 칸을 씀 · 얼굴 모음) (v1.1: 기술 이름을 덮던 발수 n → cnt · 이름 괄호 정리 · 등급 묶음 · 패시브 효과 21종 H2PAS) (v1.0, v0.60) 2기 멤버: 드라이브 '2기멤버 동료,적 모음' 1차 반영
    ■ 그림 · 키 · 적성 · 배낭은 h2_roster.js (tools/h2_roster.py가 art/h2/notes/*.json에서 만듦)
    ■ 기술은 아래 H2K (인물마다 손으로 정함 — 그림 (동작)과 짝지음)
    ■ 한 인물이 동료로도 적으로도 나올 수 있음: DEFS['h2_' + slug] (동료) · DEFS['h2e_' + slug] (적)
@@ -115,7 +115,7 @@ function h2Cast(u, s, tgt){
       break; }
     case 'combo': {   // 연계: 여러 기술을 차례로 (sub: [기술, …], gap 초)
       const subs = s.sub || []; let tm = 0;
-      for (const x of subs){ setTimeout(() => { if (u.dead || u.downed) return; u.st = 'idle'; h2Cast(u, { cd: 0, id: s.id + '_' + x.type, n: x.n || s.n, ...x }, tgt && !tgt.dead ? tgt : null); }, tm * 1000); tm += (x.windup ?? 0.4) + (s.gap || 0.35); }
+      for (const x of subs){ setTimeout(() => { if (u.dead || u.downed || u.lying || u.st === 'hurt' || u.grabbed) return; u.st = 'idle'; h2Cast(u, { cd: 0, id: s.id + '_' + x.type, n: x.n || s.n, ...x }, tgt && !tgt.dead ? tgt : null); }, tm * 1000); tm += (x.windup ?? 0.4) + (s.gap || 0.35); }
       u.h2cd[s.id] = s.cd; break; }
     case 'backstep': { const n = norm(u.x - (tgt ? tgt.x : u.x + 1), u.z - (tgt ? tgt.z : u.z)); moveBy(u, n.x * (s.len || 2.4), n.z * (s.len || 2.4)); dust(u.x, u.z, 5); u.st = 'strike'; u.stT = 0.35; break; }
   }
@@ -460,16 +460,16 @@ const H2PAS = {
 };
 
 // v1.5 3기 패시브
-const isPhys = o => o.fam !== 'magic';
-const near = (u, f, r = 10) => G.units.some(o => o !== u && o.side === u.side && !o.dead && o.D.h2 && f(o) && dist(o, u) < r);
+const h2Phys = o => o.fam !== 'magic';
+const h2Near = (u, f, r = 10) => G.units.some(o => o !== u && o.side === u.side && !o.dead && o.D.h2 && f(o) && dist(o, u) < r);
 Object.assign(H2PAS, {
   '사냥꾼의 눈': { out: (u, t) => t && (t.st === 'hurt' || t.lying || (t.sts && t.sts.slow && t.sts.slow.t > 0)) ? 1.2 : 1 },
   '관측 기록': { out: (u, t) => { if (!t) return 1; if (u._obs !== t){ u._obs = t; u._obsN = 0; } u._obsN = Math.min(5, (u._obsN || 0) + 1); return 1 + 0.05 * (u._obsN - 1); } },
   '돌갑주': { in: (u, o) => o.ranged ? 1 : 0.8, kb: 0 },
   '마신족 무리': { out: (u) => 1 + 0.1 * Math.min(3, G.units.filter(o => o !== u && o.D.h2 === 'majin' && o.side === u.side && !o.dead && dist(o, u) < 10).length) },
-  '두꺼운 판금': { in: (u, o) => isPhys(o) ? 0.75 : 1.2, kb: 0.5 },
-  '망령': { in: (u, o) => isPhys(o) ? 0.8 : 1.3 },
-  '원령': { in: (u, o) => isPhys(o) ? 0.6 : 1.5 },
+  '두꺼운 판금': { in: (u, o) => h2Phys(o) ? 0.75 : 1.2, kb: 0.5 },
+  '망령': { in: (u, o) => h2Phys(o) ? 0.8 : 1.3 },
+  '원령': { in: (u, o) => h2Phys(o) ? 0.6 : 1.5 },
   '붉은 갑주': { in: (u, o) => h2Front(u, o.from) ? 0.75 : 1.2 },
   '무쇠 몸통': { in: (u, o) => h2Front(u, o.from) ? 0.7 : 1.3, kb: 0 },
   '초월 신체': { in: (u, o) => !o.ranged && h2Front(u, o.from) ? 0.75 : 1, kb: 0 },
@@ -479,13 +479,35 @@ Object.assign(H2PAS, {
   '빛나는 눈': { out: (u) => u.hp < u.max * 0.5 ? 1.25 : 1 },
   '얼굴 없는 자': { dodge: 0.12 },
   '누더기 그림자': { dodge: 0.12 },
-  '공허의 껍질': { in: (u, o) => isPhys(o) ? 0.8 : 1, tick: (u, dt) => { u.hp = Math.min(u.max, u.hp + u.max * 0.004 * dt); } },
-  '흐르는 몸': { in: (u, o) => o.fam === 'fire' || o.sts === 'burn' ? 1.25 : isPhys(o) ? 0.8 : 1 },
+  '공허의 껍질': { in: (u, o) => h2Phys(o) ? 0.8 : 1, tick: (u, dt) => { u.hp = Math.min(u.max, u.hp + u.max * 0.004 * dt); } },
+  '흐르는 몸': { in: (u, o) => o.fam === 'fire' || o.sts === 'burn' ? 1.25 : h2Phys(o) ? 0.8 : 1 },
   '붉은 암석 몸': { in: (u, o) => o.ranged ? 0.6 : 1.1, kb: 0.2 },
   '돌 거신': { in: (u, o) => o.ranged ? 0.75 : 1, kb: 0 },
-  '암계의 장군': { in: (u) => near(u, o => o.D.h2 === (u.D.h2 === 'haryu' ? 'heugik' : 'haryu')) ? 0.85 : 1 },
+  '암계의 장군': { in: (u) => h2Near(u, o => o.D.h2 === (u.D.h2 === 'haryu' ? 'heugik' : 'haryu')) ? 0.85 : 1 },
   '흑철 갑주': { in: (u, o) => !o.ranged && h2Front(u, o.from) ? 0.75 : 1, out: (u) => 1 + 0.05 * Math.min(5, u._h2fallen || 0) },
   '긴 팔': { out: (u, t) => t && dist(u, t) > 3 ? 1.15 : 1 },
+});
+
+// v1.6 남은 패시브 (자체점검: 글만 있던 것) — 탐험용 (수집가의 자루 · 이계 탐험가 · 타천 날개 · 차원 영웅)은 원정 쪽 효과라 여기선 작게
+const h2Dark = u => typeof lightMul === 'function' && lightMul(u.x, u.z) < 0.6;
+Object.assign(H2PAS, {
+  '깃털 몸': { in: (u, o) => o.ranged ? 1 : 0.75 },
+  '인공 후광': { out: (u) => h2Near(u, () => true, 4) ? 1.1 : 1 },
+  '초인계 마수': { hitSts: 'burn', in: (u, o) => o.sts === 'burn' || o.fam === 'fire' ? 0.5 : 1 },
+  '붕대 갑옷': { in: (u, o) => o.fam === 'fire' ? 1.3 : o.ranged ? 1 : 0.8 },
+  '차원 영웅': { out: (u) => (u._h2sw = ((u._h2sw || 0) + 1) % 3) === 0 ? 1.25 : 1 },   // 곤봉 · 조율봉 · 권총을 바꿔 들어 세 번째마다 강타
+  '악마의 뿔': { out: (u) => h2Dark(u) ? 1.15 : 1 },
+  '깃털귀 천사': { out: (u) => isCrouched(u) ? 1.4 : 1 },
+  '후광': { tick: (u, dt) => { for (const o of G.units) if (o !== u && o.side === u.side && !o.dead && !o.downed && o.hp < o.max && dist(o, u) < 4) o.hp = Math.min(o.max, o.hp + o.max * 0.004 * dt); } },
+  '남색 결의': { in: (u) => h2Near(u, o => !!(o.D.bow), 6) ? 0.85 : 1 },
+  '계약의 그림자': { tick: (u, dt) => { u._h2ct = (u._h2ct || 0) - dt; if (u._h2ct > 0 || u.hp > u.max * 0.4 || u.st !== 'idle') return; const s = (H2K[u.D.h2].sk || []).find(x => x.type === 'summon'); if (!s) return; u._h2ct = 30; h2Cast(u, s, null); popText(u.x, u.y + 2, u.z, '계약의 그림자', 'alert', 1); } },
+  '그림자 몸': { in: (u) => h2Dark(u) ? 0.85 : 1.15, out: (u) => h2Dark(u) ? 1.15 : 1 },
+  '비늘 깃털 갑옷': { in: (u, o) => o.ranged && h2Front(u, o.from) ? 0.7 : h2Front(u, o.from) ? 1 : 1.15 },
+  '악마의 눈': { out: (u) => h2Dark(u) ? 1.1 : 1 },
+  '타천 날개': { dodge: 0.08 },
+  '유령 몸': { in: (u, o) => h2Phys(o) ? 0.7 : 1.2 },
+  '웃는 가면': { out: (u, t) => t && !h2Front(t, u) ? 1.4 : 1 },   // 등 돌린 적에게 배신의 칼
+  '수집가의 자루': {}, '이계 탐험가': {},
 });
 const h2Front = (u, f) => !f || f.x == null ? false : Math.cos(Math.atan2(f.z - u.z, f.x - u.x) - (u.aim ?? 0)) > 0.3;
 const h2P = u => u && u.D && u.D.h2 && H2K[u.D.h2] && H2K[u.D.h2].pas ? H2PAS[H2K[u.D.h2].pas[0]] : null;
@@ -502,6 +524,7 @@ const h2P = u => u && u.D && u.D.h2 && H2K[u.D.h2] && H2K[u.D.h2].pas ? H2PAS[H2
       if (T.last && !tgt._h2last && tgt.hp - base * 1.1 <= 0){ tgt._h2last = true; base = Math.max(0, tgt.hp - 1); popText(tgt.x, tgt.y + 2, tgt.z, '버팀!', 'alert', 1); }
     }
     const r = _hurtH2(att, tgt, base, o);
+    if (A && A.hitSts && r > 0 && typeof addStatus === 'function' && !tgt.dead) addStatus(tgt, A.hitSts, { t: 3, dps: att.atk * 0.15, k: 0.3 });
     if (T && T.thorn && att && !o.ranged && att !== tgt && att.D && !att.dead && r > 0 && !o._thorn) _hurtH2(tgt, att, r * T.thorn, { from: tgt, kb: 0, _thorn: true });
     if (tgt.dead || tgt.downed){
       if (A && att.D.h2 === 'tanga') att._h2kill = true;

diff --git a/cave-3d/tools/check_globals.js b/cave-3d/tools/check_globals.js
@@ -1,0 +1,9 @@
+// check_globals.js v1.0 — index.html 이 싣는 src/*.js 의 맨 바깥 이름 (const · let · class · function) 이 서로 겹치는지 검사. 겹치면 브라우저에서 그 파일이 통째로 안 읽힘 (2026-10-06 h2.js 'dark' 사고)
+// 실행: node tools/check_globals.js  (게시 전에)
+const fs = require('fs'), vm = require('vm'); const R = require('path').join(__dirname, '..') + '/';
+const html = fs.readFileSync(R + 'index.html', 'utf8'); const files = [...html.matchAll(/<script src="(src\/[^"]+)"/g)].map(m => m[1]);
+const seen = new Map(); let bad = 0;
+for (const f of files){ const s = fs.readFileSync(R + f, 'utf8');
+  for (const m of s.matchAll(/^(?:const|let|class|function)\s+([A-Za-z_$][\w$]*)/gm)){ const k = m[1]; if (seen.has(k) && !/^function/.test(m[0]) ) { console.log('겹침', k, seen.get(k), '↔', f); bad++; } else if (seen.has(k) && /^function/.test(m[0]) && /^(const|let)/.test(seen.get(k + ':kind') || '')) { console.log('겹침', k, seen.get(k), '↔', f); bad++; } if (!seen.has(k)){ seen.set(k, f); seen.set(k + ':kind', m[0]); } }
+}
+console.log(files.length, '파일 ·', bad, '겹침');

diff --git a/cave-3d/src/core.js b/cave-3d/src/core.js
@@ -1,7 +1,7 @@
 /* 굴의 프롤로그 3D 시제품 · core.js v0.1
    공용: 상태 · 입력 · 수학 · 그림(스프라이트 정의) · 텍스처 */
 'use strict';
-const VERSION = 'v0.63';
+const VERSION = 'v0.64';
 const TICKS = [];   // v0.55 한 프레임마다 부르는 것들 (engage · sol · squad · drill이 넣음): f(dt)
 // v0.49 게임이 업데이트되면 (VERSION이 바뀌면) 저장을 모두 지우고 새로 시작 (민수: 진행 중 저장은 되게, 단 업데이트되면 초기화)
 let SAVE_RESET = null;

diff --git a/cave-3d/src/h2_roster.js b/cave-3d/src/h2_roster.js
@@ -4095,6 +4095,7 @@ const H2R = {
 "atk": 28,
 "spd": 1.3
 },
+"face": "art/h2/levi_beast/face.webp",
 "poses": {
 "idle": {
 "src": "art/h2/levi_beast/idle.webp",

diff --git a/cave-3d/README.md b/cave-3d/README.md
@@ -1,6 +1,6 @@
 # 굴의 프롤로그 3D (시제품)
 
-현재 버전: v0.63
+현재 버전: v0.64
 
 2D판 (`../cave-game`, v14.11)에서 나온 피드백의 뿌리 세 개를 풀려고 새로 짓는 3D판. 지금은 1층 하나만.
 
@@ -167,6 +167,12 @@
 
 ## 변경 기록
 
+- v0.64 (2026-10-06) 자체점검
+  - 글만 있던 패시브 19개에 효과 (깃털 몸 · 인공 후광 · 초인계 마수 (주먹마다 화상) · 붕대 갑옷 · 차원 영웅 · 악마의 뿔 · 깃털귀 천사 · 후광 · 남색 결의 · 계약의 그림자 (위험하면 소환수) · 그림자 몸 · 비늘 깃털 갑옷 · 악마의 눈 · 타천 날개 · 유령 몸 · 웃는 가면 (등 뒤 배신) …). 수집가의 자루 · 이계 탐험가는 원정용이라 아직 효과 없음
+  - 고침: 연계기 도중 맞거나 넘어지면 끊김 (전엔 경직을 풀어 버림)
+  - 레비의 소환수 얼굴 (몸통 그림에서 잘라 만듦)
+  - 새 점검 도구 tools/check_globals.js — 파일끼리 맨 바깥 이름이 겹치면 그 파일이 통째로 안 읽히는 사고를 게시 전에 잡음 (점검 중 h2.js 'dark' 가 프롤로그와 겹친 것을 잡아 고침 — 게시된 판에는 없던 문제)
+  - 시험: 66명 동료 · 적 양쪽 기술 · 오류 0
 - v0.63 (2026-10-06) 가람 · 히라리 피격 그림 바꿈 — '가람, 히라리' 폴더에 새로 올라온 그림 (팔이 꺾이지 않은 판). 예전 피격 2 · 3 은 지움 (notes v1.1)
 - v0.62 (2026-10-06) 3기 멤버 1차 — 새 인물 25명 · 2기 인물 7명 덧붙임 (src/h2.js v1.5 · CHARACTERS3.md v1)
   - 드라이브 '3기' 31폴더 · 망향 새 시트 · 원본시트 7장 · 추가 스프라이트 18장 · 추가팩션 14장을 아홉 갈래로 나눠 전부 받아 분석 · 자름
